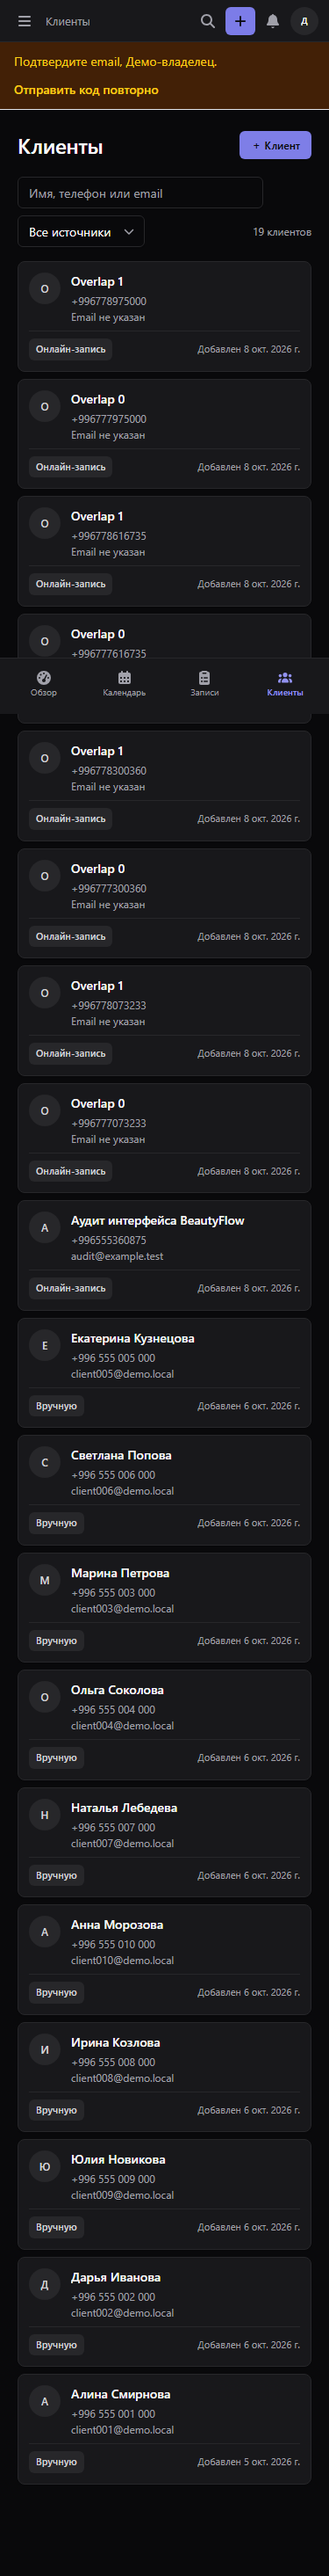
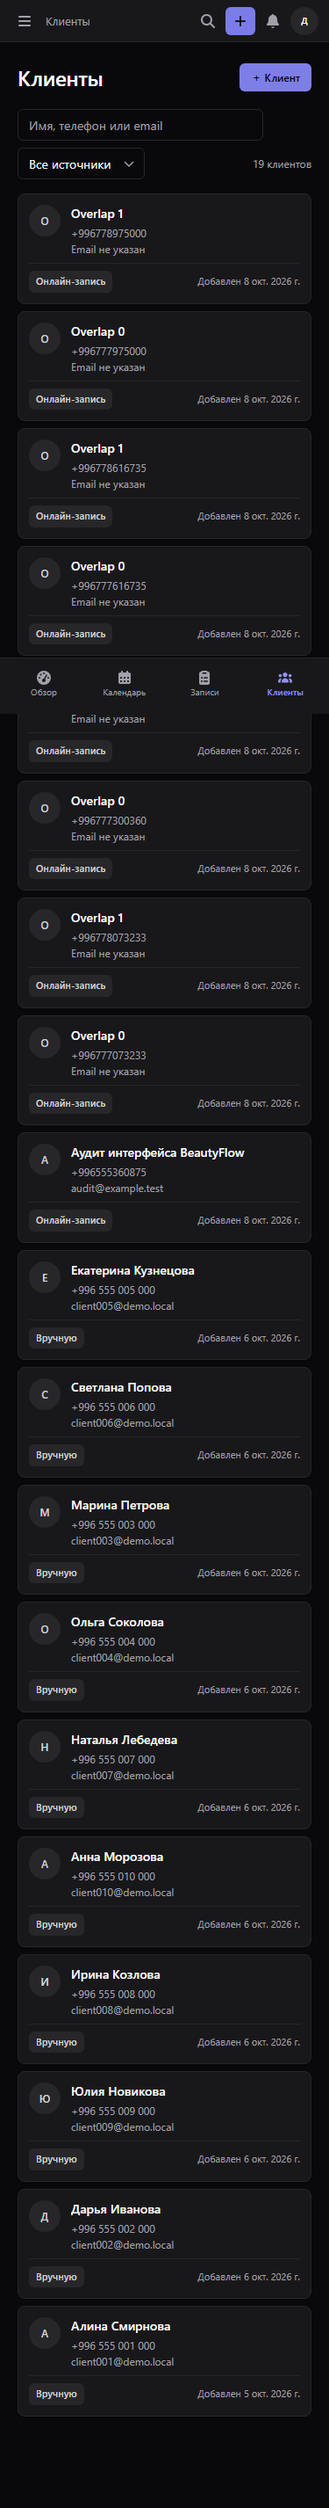
fix(seed): verify local demo accounts

diff --git a/scripts/seed.ts b/scripts/seed.ts
@@ -109,7 +109,7 @@ function seedAppointments(now: DateTime): SeedAppointment[] {
 async function upsertUser(email: string, name: string, passwordHash: string) {
   const user = await User.findOneAndUpdate(
     { emailNormalized: email },
-    { $set: { email, emailNormalized: email, passwordHash, name, locale: 'ru', status: 'active', passwordChangedAt: new Date() } },
+    { $set: { email, emailNormalized: email, passwordHash, name, locale: 'ru', status: 'active', emailVerified: true, passwordChangedAt: new Date() }, $unset: { emailVerificationCodeHash: 1, emailVerificationExpiresAt: 1 } },
     { upsert: true, returnDocument: 'after', runValidators: true, setDefaultsOnInsert: true },
   ).exec();
   return user;

diff --git a/tests/e2e/a11y/customer-list.spec.ts b/tests/e2e/a11y/customer-list.spec.ts
@@ -9,6 +9,7 @@ test('customer list cards fit phones and preserve all contact metadata', async (
   await page.getByLabel('Пароль').fill('demo-password-123');
   await page.getByRole('button', { name: 'Войти' }).click();
   await expect(page.getByRole('heading', { name: 'Обзор' })).toBeVisible();
+  await expect(page.getByText(/Подтвердите email/)).toHaveCount(0);
 
   const response = await page.request.get('http://localhost:3000/api/customers?limit=100');
   expect(response.status()).toBe(200);

diff --git a/docs/AUDIT.md b/docs/AUDIT.md
@@ -18,7 +18,7 @@
 | Landing | 6 | 7 | 8 | 5 | 6 | 7 | 7 | Hero превью dashboard показывается слишком мелко и без содержательных записей; выше первого экрана не виден ясный следующий шаг; полное прохождение секций, клавиатура и мобильная сетка не проверены. |
 | Login | 6 | 7 | 7 | 6 | 8 | 7 | 7 | Карточка теряется в большом пустом полотне; на экране остаётся парольный вход, Google только сообщает «скоро», email-кода для входа и понятного восстановления пароля нет; нет заметного пояснения ошибок/ожидания. |
 | Register + verify | 5 | 6 | 6 | 6 | 7 | 7 | 6 | Регистрация воспринимается как длинная форма без прогресса; экран verify отделён только сменой формы, нет явного resend cooldown/редактирования адреса в первом ряду; label/input тесно связаны с мелким вспомогательным текстом. |
-| Dashboard | 7 | 8 | 8 | 7 | 6 | 8 | 7 | Структура близка к эталону 4 KPI + график + ближайшие записи, но график на демо-данных почти плоский до одного скачка; длинная таблица уходит вниз и сжимается на узком viewport; видимый баннер email не является рабочим состоянием демо-пользователя. |
+| Dashboard | 8 | 8 | 8 | 8 | 6 | 8 | 7 | Структура близка к эталону 4 KPI + график + ближайшие записи; demo seed больше не показывает ошибочный баннер неподтверждённого email. График на демо-данных почти плоский до одного скачка; длинная таблица уходит вниз и сжимается на узком viewport. |
 | Calendar day / week / month | 4 | 4 | 7 | 5 | 3 | 7 | 5 | **Блокер:** динамические Tailwind классы `row-start-[${…}]`/`row-span-[${…}]` не генерируются сборщиком, поэтому карточки в grid схлопываются до узких полос с точками вместо времени/клиента/услуги. Week имеет широкие колонки и длинный список; мобильная версия и управление без мыши не доказывают работу сетки. Эталон показывает читаемые цветные карточки с временем и услугой прямо в календаре. |
 | Appointments | 5 | 6 | 7 | 6 | 4 | 7 | 6 | Таблица содержит много колонок и действий; на узкой ширине строки требуют горизонтального сжатия/прокрутки; плотность и фильтры уступают эталонной компактной таблице с предсказуемым меню строки. |
 | Customers list (после Stage 4) | 8 | 8 | 8 | 8 | 9 | 8 | 9 | На телефоне таблица заменяется карточками с именем, телефоном, email, источником и локальной датой добавления; desktop сохраняет плотную таблицу. Chromium подтверждает пять ширин и axe в light/dark. Ещё не аудированы специальные состояния пустого результата/API error и master permissions. |
@@ -55,10 +55,16 @@
 - Во время проверки найден и исправлен общий a11y дефект topbar: мобильная иконка новой записи имела пустое accessible name. Ссылка получила локализованное имя, декоративная иконка скрыта от accessibility tree.
 - После: [`customers-after-mobile-light.png`](screenshots/customers-after-mobile-light.png), [`customers-after-mobile-dark.png`](screenshots/customers-after-mobile-dark.png). `tests/e2e/a11y/customer-list.spec.ts` ✅ 1/1, typecheck ✅, lint ✅. API error/empty и master-specific состояния остаются отдельной проверкой.
 
+## Stage 4 — локальный demo verification state (2026-10-08)
+
+- Причина persistent banner «Подтвердите email»: `scripts/seed.ts` создавал owner/master с default `emailVerified: false`. Seed теперь помечает только эти development demo users подтверждёнными и очищает сохранённые verification hash/expiry при повторном запуске. Production auth flow и модель не менялись.
+- Повторный `npm run seed` обновил существующий demo tenant; Chromium E2E проверяет отсутствие баннера после входа как owner. Seed завершился с 3 мастерами, 5 услугами, 19 клиентами, 41 записью, 11 оплатами. Логин остаётся `owner@demo.local` / `demo-password-123`.
+- Проверки: targeted customer-list E2E ✅ 1/1, typecheck ✅, lint ✅.
+
 ### Причины ключевых оценок
 
 - **Календарь — baseline D4/S4/R3:** исходная сетка теряла карточки из-за динамических Tailwind-классов; затем это исправлено. Текущие ограничения и оценки указаны в Stage 4 выше.
-- **Customer detail:** DTO-to-view mapping, локализация истории/оплат и business timezone закрыты в Stage 4; для 10/10 остаются доказательство master permissions/error states. **Customer list** теперь имеет responsive cards; отдельная проверка error/empty и master-specific permissions остаётся открытой.
+- **Customer detail:** DTO-to-view mapping, локализация истории/оплат и business timezone закрыты в Stage 4; для 10/10 остаются доказательство master permissions/error states. **Customer list** теперь имеет responsive cards; отдельная проверка error/empty и master-specific permissions остаётся открытой. Development demo seed больше не показывает ложный unverified banner.
 - **Payments — R3:** строки из 9 колонок на desktop уже ломают слова; на 320–768px таблица станет практически нечитаемой. Нужна responsive карточка при сохранении desktop-таблицы.
 - **Public booking — St4:** реальные слоты и запись работают в браузере, но состояния «слоты ещё не запрошены», «слотов нет», «загрузка», «ошибка» и успешный результат визуально почти не разделены.
 - **Login / register — A11y6–7:** labels присутствуют, но текущая проверка была smoke-only; нет завершённого axe и keyboard прогона. Это оценка риска проверки, не утверждение о конкретном подтверждённом axe нарушении.

diff --git a/docs/HANDOFF.md b/docs/HANDOFF.md
@@ -11,6 +11,7 @@
 - Stage 3 audit is in `docs/AUDIT.md`; 42 Chromium baseline screenshots are in `docs/screenshots/audit-before/`. At baseline, calendar placement classes were not emitted; customer detail output raw backend keys / ISO dates / minor-unit amounts; payments table wrapped badly; seeded demo accounts were unverified and showed a persistent banner; appointment modal could show a generic error. The calendar placement blocker is now fixed; remaining audit items are in `docs/AUDIT.md`. Baseline client chunk was 1.26 MB minified (365 KB gzip).
 - Stage 4 calendar work is now complete for its priority layout findings: static 1–52 grid utilities; 30-minute cards readable at ≥39px; mobile automatically switches to Day and the 320/375px day grid has no inner horizontal overflow; first time label is visible; payment action no longer wraps; overlapping bookings from separate masters receive distinct calendar lanes. `assignCalendarLanes` has unit coverage for overlap, nested, adjacent, and disconnected intervals. Real Chromium E2E created two same-time bookings, verified side-by-side card bounds, captured light/dark, then canceled test records. Evidence/screenshots: `docs/screenshots/calendar-after-light.png`, `calendar-after-dark.png`, `calendar-after-mobile.png`, `calendar-overlap-light.png`, `calendar-overlap-dark.png`. Full a11y/responsive suite is 2/2; keyboard-only slot creation remains a separate audit item.
 - Stage 4 localized the customer detail view and added a responsive customer list. Detail fields/statuses and amounts are localized in the business timezone; history/payment rows stack on mobile. The list uses cards below 768px with name, phone, email, source, and local created date, retaining the desktop table. Real Chromium verifies customer detail/list against seeded MongoDB, both themes, axe, 320/375/768/1024/1440px, and customer navigation. List screenshots: `docs/screenshots/customers-after-mobile-light.png`, `customers-after-mobile-dark.png`; detail screenshots: `customer-detail-after-light.png`, `customer-detail-after-dark.png`. The list run caught and fixed an unnamed icon-only topbar link.
+- The persistent demo “Подтвердите email” banner came from seed owner/master users inheriting `emailVerified=false`. `scripts/seed.ts` now marks only local demo accounts verified and removes old verification hashes/expiry; production auth behavior and contracts are unchanged. `npm run seed` passed with 3 staff, 5 services, 19 customers, 41 appointments, and 11 payments; Chromium verifies the banner is absent after demo owner login.
 - Latest customer evidence: customer detail targeted E2E ✅ (1/1); customer list targeted E2E ✅ (1/1); typecheck ✅ and lint ✅. Both pages check seeded Mongo data, both themes, axe, and all five responsive widths. Separate master/no-payment and API-error states remain open.
 - Calendar continuation evidence: `tests/unit/calendar-appointment-lanes.test.ts` ✅ (3/3), `tests/e2e/calendar-overlap.spec.ts` ✅ (1/1), mobile-day scroll width ✅ at 320/375px. A first full E2E pass exposed an obsolete title selector in `smoke.spec.ts`; it was changed to locate the appointment card by its accessible name and independently passed.
 - Latest cumulative gate after both Stage 4 screens: migrate/typecheck/lint ✅; Vitest 32 files / 118 tests ✅; race 2/2 ✅; production build ✅; contrast ✅; Chromium E2E 13/13 ✅; a11y/responsive 2/2 ✅. Build outputs client CSS with overlap-lane utilities and warns about a single 1,261.02 kB minified client JS chunk / upstream `use client` directives. FPS/production Performance trace remains unmeasured. Stage 4 remaining screen priorities are in `docs/AUDIT.md`; keep public data changes in the development demo tenant.

diff --git a/PROGRESS.md b/PROGRESS.md
@@ -50,6 +50,12 @@
 - Fixed the unnamed mobile topbar “new appointment” link exposed by axe: localized accessible name and decorative icon hidden from the accessibility tree.
 - `tests/e2e/a11y/customer-list.spec.ts` ✅ (1/1), `npm run typecheck` ✅, `npm run lint` ✅. Customer empty/API-error and master-specific states remain unaudited.
 
+## 2026-10-08 — Stage 4 demo verification state
+
+- Fixed the local seed account state that caused an irrelevant persistent “Подтвердите email” banner: owner/master demo users are marked verified, and stale verification hashes/expiry are cleared on reseed. Scope is limited to the development seed; auth behavior/contracts are unchanged.
+- `npm run seed` ✅ against the existing MongoDB container (3 staff, 5 services, 19 customers, 41 appointments, 11 payments). The customer-list Chromium E2E asserts the banner is absent for the demo owner.
+- Checks: targeted customer-list E2E ✅ (1/1), `npm run typecheck` ✅, `npm run lint` ✅.
+
 ## WIP 2026-10-07 — shadcn/ui migration paused
 
 - `shadcn@latest` и `radix-nova` конфигурация добавлены в `packages/client`; theme variables light/dark добавлены в `src/index.css`. Компоненты установлены/перегенерированы: Button, Input, Select, NativeSelect, Dialog, Table, Card, Badge, Tabs, Skeleton, DropdownMenu, Avatar, Sheet, Checkbox, RadioGroup, Pagination, Textarea, Label, Sonner. Часть generated classes адаптирована к Tailwind 3 и некоторые icons переведены на Font Awesome.
